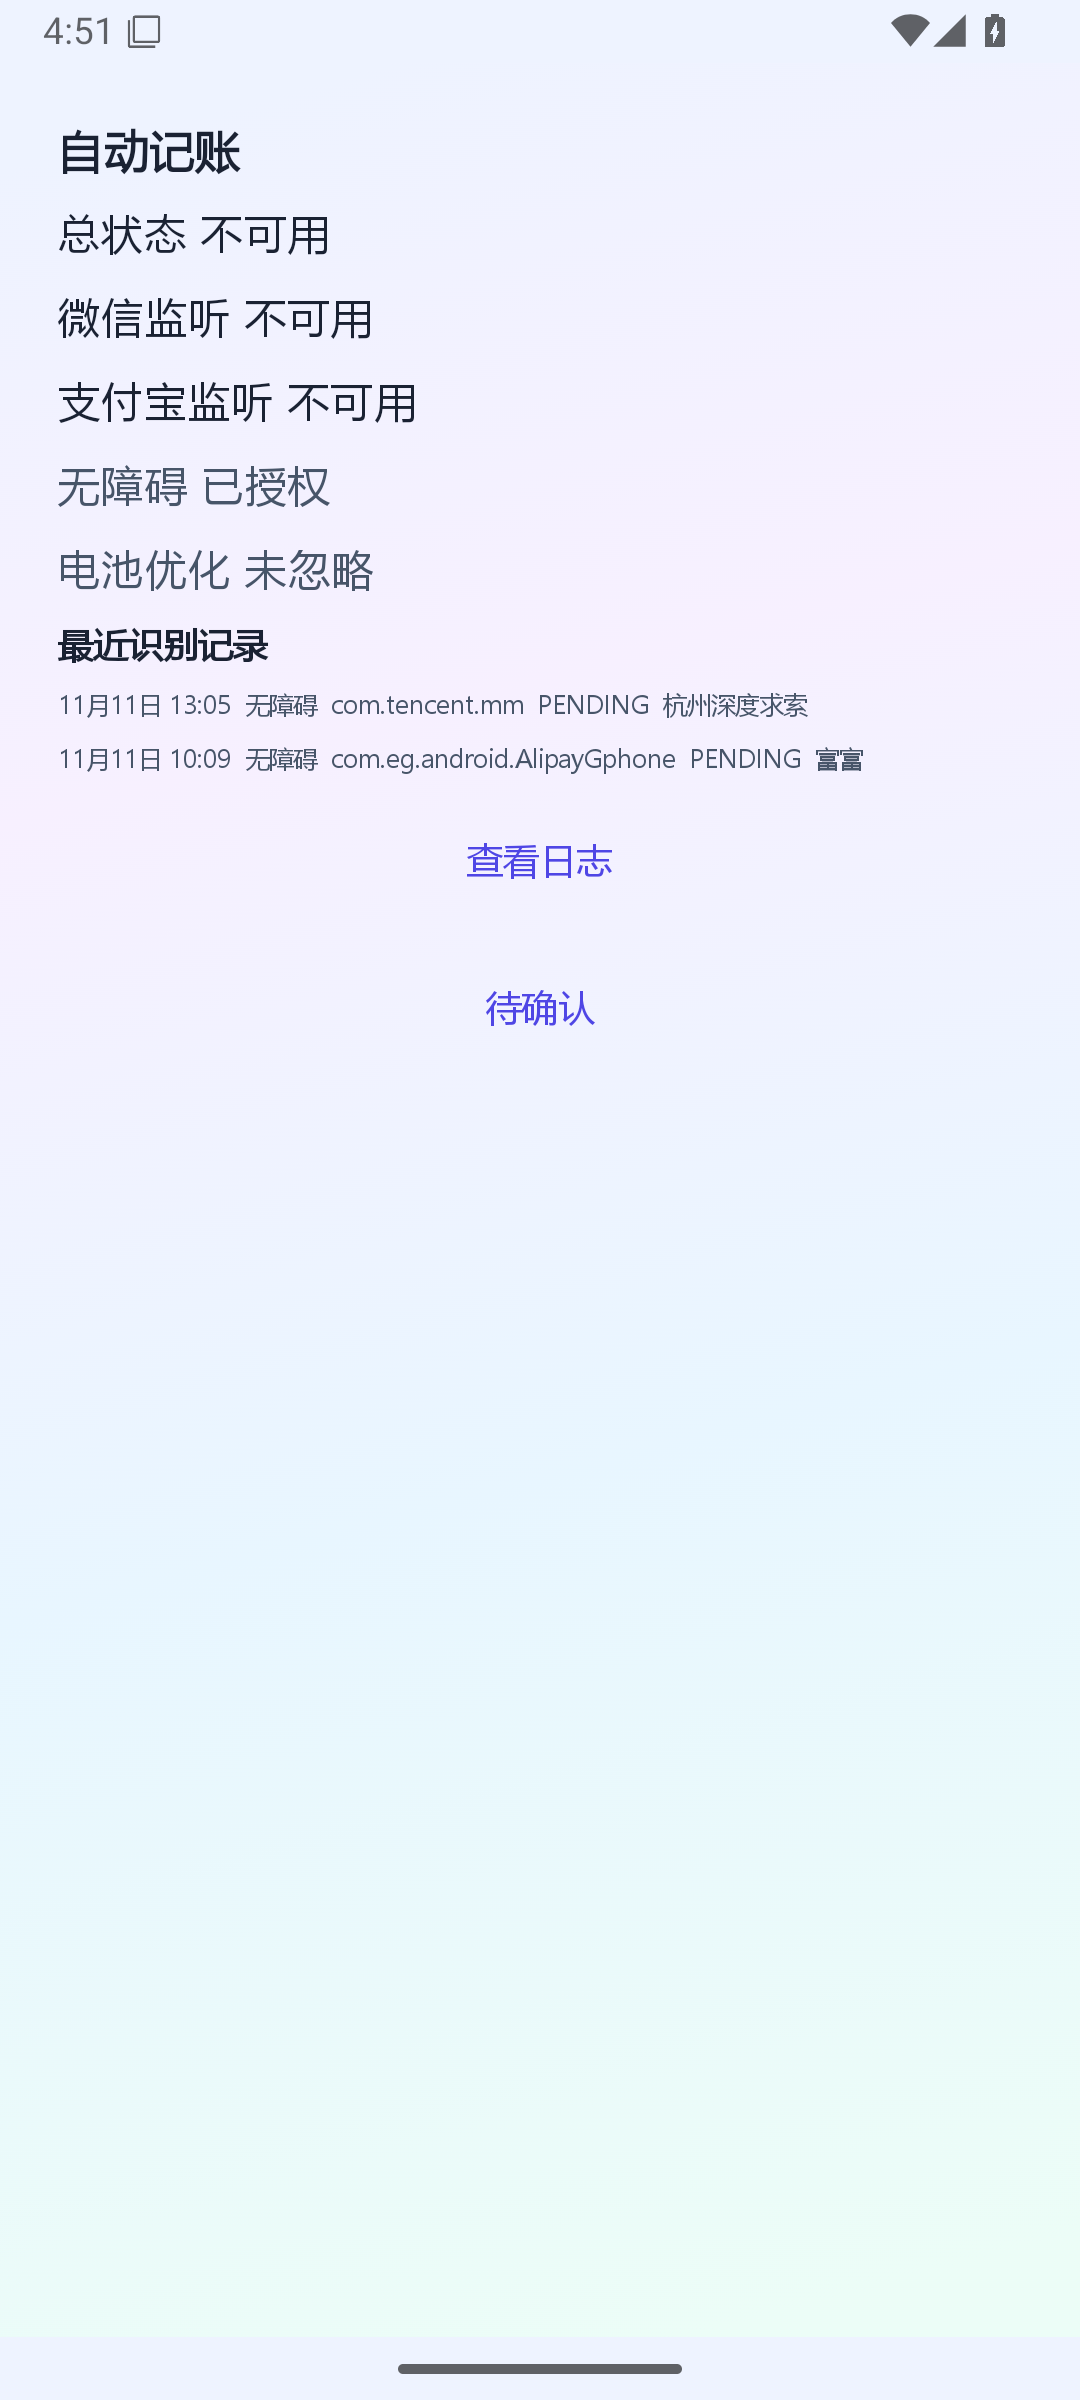
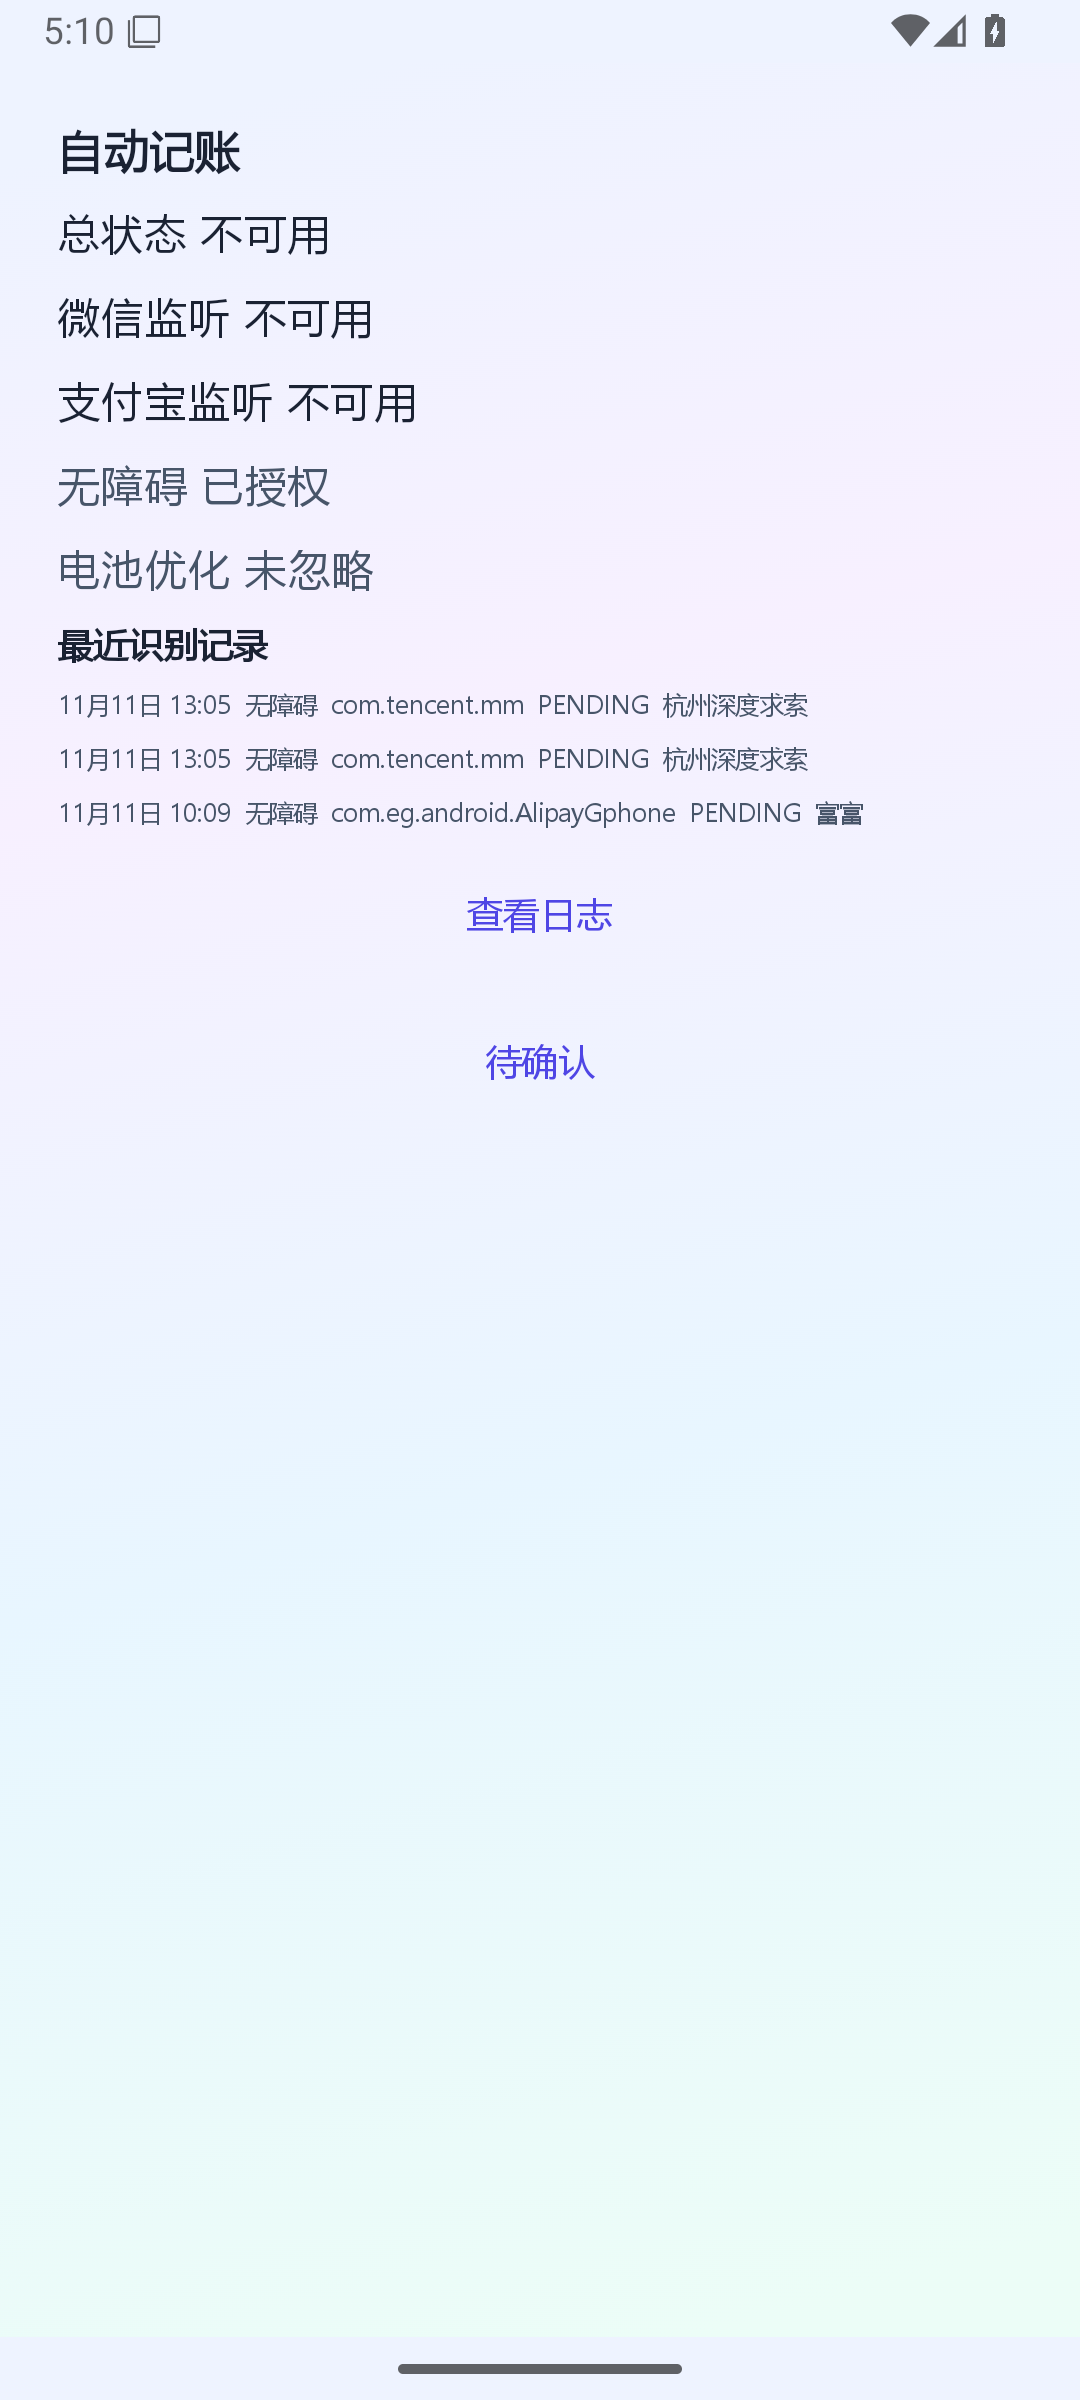
M6-4: refresh proof after pending reasons survive a log clear
AC-5 replays m6-3-f-wx twice. After the log clear the POSSIBLE_DUPLICATE row still has that reason and offers only 查看重复 / 忽略. Every JSON gitSha matches the new functional APK.

diff --git a/docs/proof/m6-4/README.md b/docs/proof/m6-4/README.md
@@ -1,19 +1,24 @@
 # M6-4 证明
 
-功能提交（debug APK 的 `BuildConfig.GIT_SHA`）是 `0910af02f4a924140e6709e4befa239b08191cee`。`git-sha.txt` 与本目录每份 JSON 的 `gitSha` 都是这一串。APK 从这次提交打出，没有用后来的证明提交重打。
+功能提交（debug APK 的 `BuildConfig.GIT_SHA`）是 `f08dada6a5221b87dddac2893d56bd85187fc6ae`。`git-sha.txt` 与本目录每份 JSON 的 `gitSha` 都是这一串。APK 从这次提交打出，没有用后来的证明提交重打。
 
-模拟器：`m64_phone`，API 36，1080×2400，时区 `Asia/Shanghai`，时钟 2026-11-11 16:50–16:52 CST。截图全部是 `adb exec-out screencap -p`，不是 Compose Preview。键盘没有挡住要读的字。
+待确认原因写在交易自己的 `pendingReasons` 列上（Room 2→3，`MIGRATION_2_3` 用该交易最新一条非空 `capture_logs.reason` 回填）。清空日志只删 `capture_logs` 和 `capture_evidence`，不保留仍挂着 PENDING 的日志。
 
-回放只用已有 fixture，没有新的真机付款：
+模拟器：`m64_phone`，API 36，1080×2400，时区 `Asia/Shanghai`，时钟 2026-11-11 17:10–17:12 CST。截图全部是 `adb exec-out screencap -p`，不是 Compose Preview。键盘没有挡住要读的字。
+
+回放只用已有 fixture，没有新的真机付款。`m6-3-f-wx` 回放了两次，用来得到一条 `POSSIBLE_DUPLICATE`：
 
 | id | 内容 |
 |---|---|
-| `m6-3-f-wx` | 微信，2026-11-11 13:05，¥10.00（`amountMinor=1000`），商户杭州深度求索，包名 `com.tencent.mm` |
-| `m6-3-f-ali` | 支付宝，2026-11-11 10:09，¥129.99（`amountMinor=12999`），商户富富，包名 `com.eg.android.AlipayGphone` |
+| `m6-3-f-wx`（第一次） | 微信，2026-11-11 13:05，¥10.00（`amountMinor=1000`），商户杭州深度求索，包名 `com.tencent.mm`。原因 `ACCOUNT_UNCERTAIN,CATEGORY_UNCERTAIN` |
+| `m6-3-f-wx`（第二次） | 同一笔再回放一次。原因 `POSSIBLE_DUPLICATE`，状态仍是 `PENDING` |
+| `m6-3-f-ali` | 支付宝，2026-11-11 10:09，¥129.99（`amountMinor=12999`），商户富富，包名 `com.eg.android.AlipayGphone`。原因 `ACCOUNT_UNCERTAIN,CATEGORY_UNCERTAIN` |
 
 忽略路径是 M3a 的「忽略」：对待确认里的 `m6-3-f-ali` 点忽略，再从捕获日志恢复。没有第三份 fixture 文件。
 
-回放之后两条都是 `PENDING` / `ACCESSIBILITY`，本月支出 0。后面出现的唯一一笔 `CONFIRMED` 是用户在「记一笔」里手动保存的 ¥1.00（`source=MANUAL`）。没有任何路径自动写成 `CONFIRMED` 或 `DUPLICATE`。
+回放之后三笔都是 `PENDING` / `ACCESSIBILITY`，本月支出 0。后面出现的唯一一笔 `CONFIRMED` 是用户在「记一笔」里手动保存的 ¥1.00（`source=MANUAL`）。没有任何路径自动写成 `CONFIRMED` 或 `DUPLICATE`。`POSSIBLE_DUPLICATE` 只出现在原因里，交易状态不是 `DUPLICATE`。
+
+改备注的是不含 `POSSIBLE_DUPLICATE` 的那条 `m6-3-f-wx`。改完后状态仍是 `PENDING`，`confirmedByUser` 变为 true。这一点按 PM 不在本刀修改。
 
 ## AC-7 把上次捕获拨到 24 小时前
 
@@ -27,46 +32,49 @@ adb shell am broadcast -a com.zhangran.app.debug.BACKDATE_LAST_CAPTURE --el ageM
 
 `ac7-broadcast.txt` 是仪器测试里同一次广播的输出，含 `result=0`。
 
+`ac6-home-stats.png` 与 `ac7-switch-off-home.png` 是两次截图。后者在等到下一分钟之后才截，状态栏分钟不同，两张图不是同一文件。
+
 ## 文件
 
 | 文件 | 验收 |
 |---|---|
 | `git-sha.txt` | 功能提交 SHA，等于 APK `BuildConfig.GIT_SHA` |
-| `ac1-available-home.png` | AC-1。首页副标题 `AUTO LEDGER · 可用`。待确认 2。杭州深度求索 -10.00 13:05，富富 -129.99 10:09。本月支出 ¥0.00。没有「未接入」 |
+| `ac1-available-home.png` | AC-1。首页副标题 `AUTO LEDGER · 可用`。待确认 3。两条杭州深度求索 -10.00 13:05，富富 -129.99 10:09。本月支出 ¥0.00。没有「未接入」 |
 | `ac1-available-mine.png` | AC-1。总开关只在「我的」，当前开启。权限状态「无障碍已授权」。自动记账状态「可用」 |
 | `ac1-available-auto-ledger.png` | AC-1。总状态可用，微信监听可用，支付宝监听可用，无障碍已授权。有「查看日志」「待确认」。没有第二个总开关 |
-| `ac1-unavailable.json` | AC-1。关掉总开关后 `pendingCount` 仍是 2，两笔仍是 `PENDING` |
-| `ac1-unavailable-home.png` | AC-1。首页 `AUTO LEDGER · 不可用`。待确认仍是 2 |
+| `ac1-unavailable.json` | AC-1。关掉总开关后 `pendingCount` 仍是 3。三笔仍是 `PENDING`，其中一条 `reasons` 为 `POSSIBLE_DUPLICATE` |
+| `ac1-unavailable-home.png` | AC-1。首页 `AUTO LEDGER · 不可用`。待确认仍是 3 |
 | `ac1-unavailable-mine.png` | AC-1。总开关关闭。状态「不可用」 |
 | `ac1-unavailable-auto-ledger.png` | AC-1。自动记账页总状态不可用。没有总开关 |
-| `ac1-manual-home.png` | AC-1。开关关闭后手动记一笔 ¥1.00，首页本月支出 ¥1.00，餐饮 · 手动。两条回放仍在，待确认仍是 2 |
-| `ac1-manual.json` | AC-1 / AC-5。清空前的账本。回放两笔仍 `PENDING`，另有一笔 `source=MANUAL`、`state=CONFIRMED`、`amountMinor=100`。`m6-3-f-wx` 的 `fieldEdits` 含 `note`，备注 `m6-4-field-edit` |
+| `ac1-manual-home.png` | AC-1。开关关闭后手动记一笔 ¥1.00，首页本月支出 ¥1.00，餐饮 · 手动。三条回放仍在，待确认仍是 3 |
+| `ac1-manual.json` | AC-1 / AC-5。清空前、手动入账之后的账本。三条回放仍 `PENDING`，另有一笔 `source=MANUAL`、`state=CONFIRMED`、`amountMinor=100`。不含疑似重复的那条微信 `fieldEdits` 含 `note`，备注 `m6-4-field-edit`，`reasons` 仍是 `ACCOUNT_UNCERTAIN,CATEGORY_UNCERTAIN` |
 | `ac2-onboard-before.png` | AC-2。冷启动落在权限引导。只有无障碍（未授权）和电池优化（可跳过）。没有 LSPosed、OCR、短信、悬浮窗 |
 | `ac2-app-settings.png` | AC-2。「前往授权」打开的是本应用「账然」的系统应用信息页 |
 | `ac2-onboard-refreshed.png` | AC-2。从系统设置返回后，无障碍变为已授权 |
 | `ac2-battery-skipped.png` | AC-2。电池优化点了「跳过」，引导仍可完成 |
-| `ac2-cold-start-home.png` | AC-2。点「完成」之后 `am force-stop` 再 `am start`。第二次冷启动在首页，不在权限引导。状态「不可用」（当时总开关已关） |
-| `ac3-logs.json` | AC-3。两条日志：`2026-11-11 13:05` / `m6-3-f-wx` / `com.tencent.mm`，`2026-11-11 10:09` / `m6-3-f-ali` / `com.eg.android.AlipayGphone`。来源 `ACCESSIBILITY`，状态 `PENDING`，原因 `ACCOUNT_UNCERTAIN,CATEGORY_UNCERTAIN` |
-| `ac3-logs-list.png` | AC-3。页面读到「11月11日 13:05」「11月11日 10:09」，来源「无障碍 ACCESSIBILITY」，包名、`PENDING`、原因。筛选里没有 `RULE_TEST`（规则页不在本刀） |
-| `ac3-filter-pending.png` | AC-3。筛选 `PENDING` 后两条都还在 |
+| `ac2-cold-start-home.png` | AC-2。仪器跑完后 `am force-stop` 再 `am start`。冷启动在首页，不在权限引导。状态「不可用」，待确认 3，本月支出 ¥1.00（手动那笔已经入账） |
+| `ac3-logs.json` | AC-3。三条日志。两条都是 `2026-11-11 13:05` / `m6-3-f-wx` / `com.tencent.mm`，原因分别是 `POSSIBLE_DUPLICATE` 与 `ACCOUNT_UNCERTAIN,CATEGORY_UNCERTAIN`。一条是 `2026-11-11 10:09` / `m6-3-f-ali` / `com.eg.android.AlipayGphone`，原因 `ACCOUNT_UNCERTAIN,CATEGORY_UNCERTAIN`。来源都是 `ACCESSIBILITY`，状态都是 `PENDING` |
+| `ac3-logs-list.png` | AC-3。页面读到两条「11月11日 13:05」和一条「11月11日 10:09」，来源「无障碍 ACCESSIBILITY」，包名、`PENDING`、原因。筛选里没有 `RULE_TEST`（规则页不在本刀） |
+| `ac3-filter-pending.png` | AC-3。筛选 `PENDING` 后三条都还在 |
 | `ac3-filter-empty.png` | AC-3。筛选 `CONFIRMED` 后空态「没有该状态的日志」 |
-| `zhangran-logs-20261111-165121.json` | AC-4。系统分享出去的文件本身。文件名 `zhangran-logs-<yyyyMMdd-HHmmss>.json`。内含功能提交 `gitSha` 和上面两条日志 |
-| `ac4-share-sheet.png` | AC-4。系统分享面板，文件名 `zhangran-logs-20261111-165121.json` |
+| `zhangran-logs-20261111-171105.json` | AC-4。系统分享出去的文件本身。文件名 `zhangran-logs-<yyyyMMdd-HHmmss>.json`。内含功能提交 `gitSha` 和上面三条日志 |
+| `ac4-share-sheet.png` | AC-4。系统分享面板，文件名 `zhangran-logs-20261111-171105.json` |
 | `ac4-sensitive-scan.txt` | AC-4。仪器测试对导出文件的字符串字段扫描，结果 `no plaintext sensitive fields` |
-| `ac4-host-scan.txt` | AC-4。同一文件在主机上再扫一遍字符串字段（手机号、18 位身份证、16–19 位卡号、12 位以上数字串），无命中。整文件里仅有的两段 12 位以上数字是 `capturedAt` 时间戳 `1794373522722` 与 `1794362941004`，不是账号或单号 |
-| `ac5-before-clear.json` | AC-5。改备注之后、忽略和手动入账之前。`m6-3-f-wx` 的 `fieldEdits` 为 `["note"]`，`note` 为 `m6-4-field-edit`，状态仍是 `PENDING` |
+| `ac4-host-scan.txt` | AC-4。同一文件在主机上再扫一遍字符串字段（手机号、18 位身份证、16–19 位卡号、12 位以上数字串），无命中。整文件里仅有的 12 位以上数字是 `capturedAt` 时间戳 `1794373522722`（微信，出现两次）与 `1794362941004`（支付宝） |
+| `ac5-before-clear.json` | AC-5。改备注之后、忽略和手动入账之前。三笔都是 `PENDING`。不含疑似重复的微信 `fieldEdits` 为 `["note"]`，`note` 为 `m6-4-field-edit`。另一条微信 `reasons` 为 `POSSIBLE_DUPLICATE` |
 | `ac5-confirm.png` | AC-5。二次确认文案「只清日志和证据，不影响已记的账」 |
 | `ac5-empty.png` | AC-5。清空后空态「还没有捕获日志」 |
 | `ac5-logs-after.json` | AC-5。清空后导出结构里 `entries` 为空 |
-| `ac5-after-clear.json` | AC-5。与 `ac1-manual.json` 比：三笔交易的状态、金额、备注、`fieldEdits`、`confirmedByUser` 不变。`evidenceCount` 与 `captureLogCount` 变为 0。`fixtureId` 变空，因为它写在已删除的捕获日志上，不在交易上 |
-| `ac6-ignored.json` | AC-6。`m6-3-f-ali` 变为 `IGNORED`，`pendingCount` 从 2 降到 1。本月支出仍是 0 |
+| `ac5-after-clear.json` | AC-5。三笔待确认的 `reasons` 与清空前逐字相同：`ACCOUNT_UNCERTAIN,CATEGORY_UNCERTAIN`、`POSSIBLE_DUPLICATE`、`ACCOUNT_UNCERTAIN,CATEGORY_UNCERTAIN`。状态、金额、备注、`fieldEdits`、`confirmedByUser` 也不变。`evidenceCount` 与 `captureLogCount` 变为 0。`fixtureId` 变空，因为它写在已删除的捕获日志上。多出来的第四笔是手动 ¥1.00，`state=CONFIRMED`，`reasons` 为 null |
+| `ac5-pending-after-clear.png` | AC-5。清空之后的待确认列表。疑似重复那条只有「查看重复」「忽略」，没有「确认」，也没有「改完再记」。另外两条仍有「确认」 |
+| `ac6-ignored.json` | AC-6。`m6-3-f-ali` 变为 `IGNORED`，`pendingCount` 从 3 降到 2。本月支出仍是 0。两条微信仍是 `PENDING`，原因不变 |
 | `ac6-log-ignored.png` | AC-6。日志筛选 `IGNORED`，读到 11月11日 10:09、支付宝包名、`IGNORED`，以及「恢复」 |
-| `ac6-restored.json` | AC-6。恢复后 `m6-3-f-ali` 回到 `PENDING`，`pendingCount` 回到 2。本月支出、收入仍是 0 |
+| `ac6-restored.json` | AC-6。恢复后 `m6-3-f-ali` 回到 `PENDING`，`pendingCount` 回到 3。本月支出、收入仍是 0 |
 | `ac6-pending-restored.png` | AC-6。待确认列表重新出现 `m6-3-f-ali` 与「富富」 |
-| `ac6-home-stats.png` | AC-6。恢复后首页本月支出仍是 ¥0.00，待确认 2 |
+| `ac6-home-stats.png` | AC-6。恢复后首页本月支出仍是 ¥0.00，待确认 3 |
 | `ac7-broadcast.txt` | AC-7。debug 广播 `result=0` |
-| `ac7-stale.json` | AC-7。拨到 25 小时前之后 `pendingCount` 仍是 2，没有新的 Pending |
-| `ac7-stale-home.png` | AC-7。首页 `AUTO LEDGER · 疑似失效`。待确认仍是 2，本月支出仍是 ¥0.00 |
+| `ac7-stale.json` | AC-7。拨到 25 小时前之后 `pendingCount` 仍是 3，没有新的 Pending |
+| `ac7-stale-home.png` | AC-7。首页 `AUTO LEDGER · 疑似失效`。待确认仍是 3，本月支出仍是 ¥0.00 |
 | `ac7-stale-auto-ledger.png` | AC-7。总状态「疑似失效」，文案「已超过 24 小时没有捕获」。微信、支付宝监听仍可用 |
-| `ac7-switch-off-home.png` | AC-7。关掉总开关后首页回到「不可用」，「疑似失效」消失 |
-| `ac8-replay.json` | AC-8。回放刚结束、手动入账之前。两笔都是 `PENDING`，没有 `CONFIRMED`，没有 `DUPLICATE`。`pendingCount=2`，本月支出 0。`gitSha` 为 `0910af02f4a924140e6709e4befa239b08191cee` |
+| `ac7-switch-off-home.png` | AC-7。关掉总开关后首页回到「不可用」，「疑似失效」消失。与 `ac6-home-stats.png` 不是同一张图 |
+| `ac8-replay.json` | AC-8。回放刚结束、手动入账之前。三笔都是 `PENDING`，没有 `state=CONFIRMED`，没有 `state=DUPLICATE`。一条原因是 `POSSIBLE_DUPLICATE`。`pendingCount=3`，本月支出 0。`gitSha` 为 `f08dada6a5221b87dddac2893d56bd85187fc6ae` |
